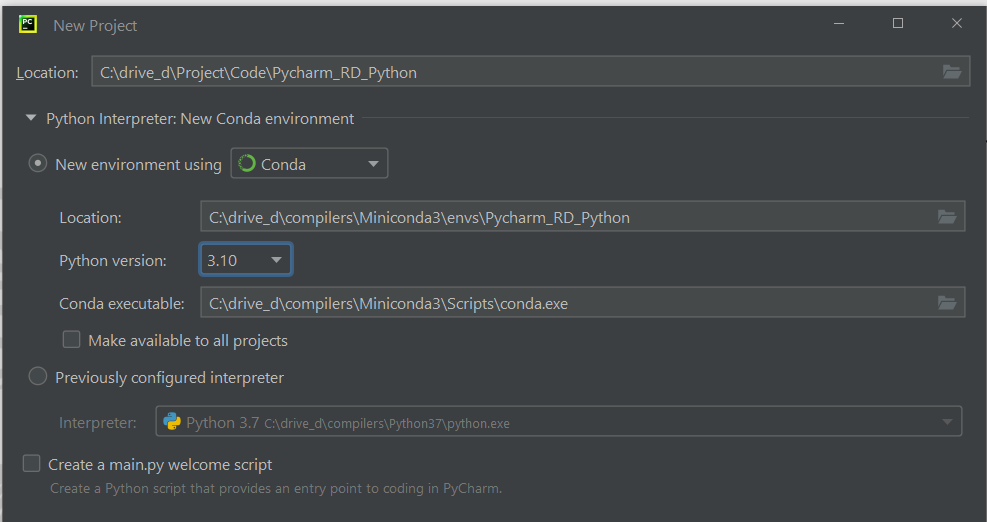
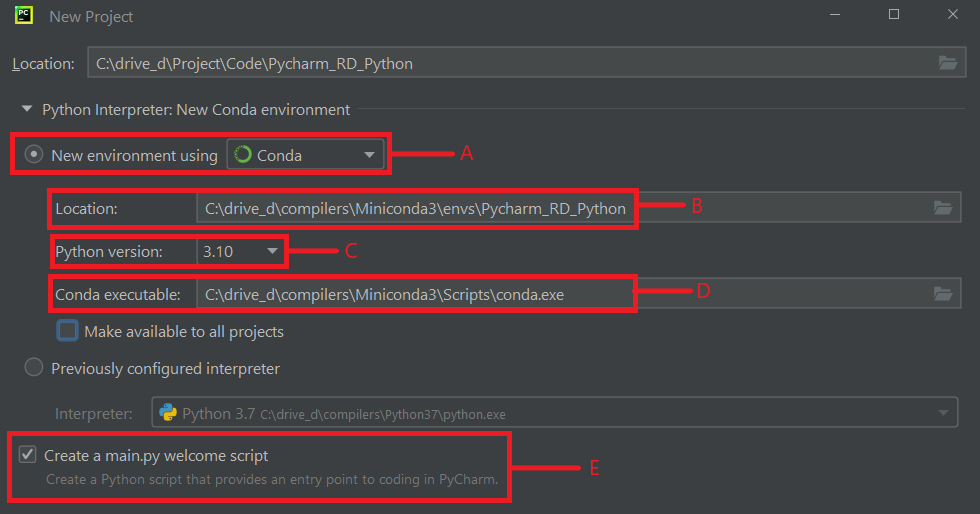
Add new project detail

diff --git a/README.md b/README.md
@@ -63,6 +63,31 @@ Firstly, create a new development project. Please open the PyCharm IDE and choos
 ![figure-2](images/01_pycharm.png "step 1: new project")
 
 Next, input the project location (I pick *C:\drive_d\Project\Code\Pycharm_RD_Python* folder as my work location) and set the following properties:
+- *New environment using*: Conda
+- *Location*: Point to your &lt;Conda&gt;\envs\\&lt;Project name&gt;
+- *Python version*: Based on your preference, I choose Python 3.10. Please refer to the [Python End Of Life page](https://endoflife.date/python)
+- *Conda executable*: Point to &lt;Conda&gt;\Script\conda.exe location in your Conda installation folder
+- *Create a main.py welcome script*: Choose this option
+
+![figure-2](images/02_pycharm_newproject_a.png "PyCharm new project")
+
+Note: PyCharm supports the [Virtualenv](https://virtualenv.pypa.io/en/latest/), [Pipenv](https://pipenv.pypa.io/en/latest/), [Poetry](https://python-poetry.org/), and [Anaconda](https://www.anaconda.com/)/[Minconda](https://conda.io/en/latest/miniconda.html) Python virtual environment and Packaging/Dependencies Management tools. I choose Conda for Python versioning flexibility. Please choose this option based on your development requirement.
+
+Then PyCharm initializes the project and Conda environment.
+
+![figure-3](images/03_pycharm.png)
+
+Once the project and Conda environment are created successfully, you see this IDE screen with an example ```main.py``` code as follows:
+
+![figure-4](images/04_pycharm.png "create new project success")
+
+You can use this example ```main.py``` script to test if PyCharm can run Python properly on your machine. To run the code, right-click and choose Run 'Main' menu or click the Run command at the toolbar.
+
+![figure-5](images/04_pycharm_2.png 'Run Python project')
+
+The result is as follows:
+
+![figure-6](images/05_pycharm.png "hello world example")
 
 TBD
 
